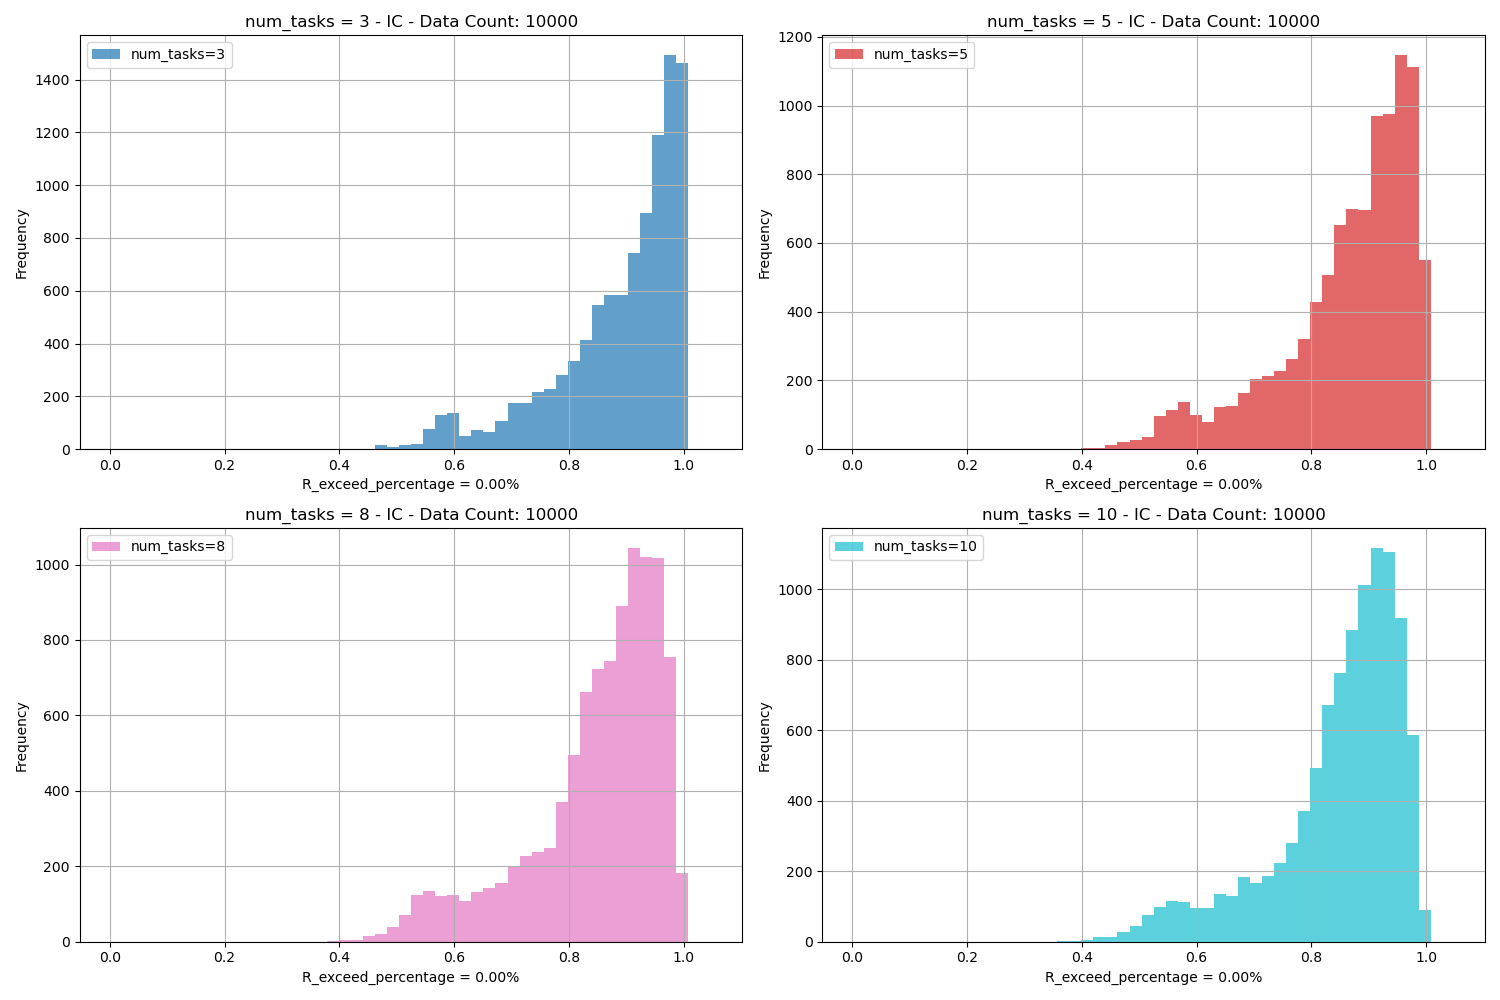
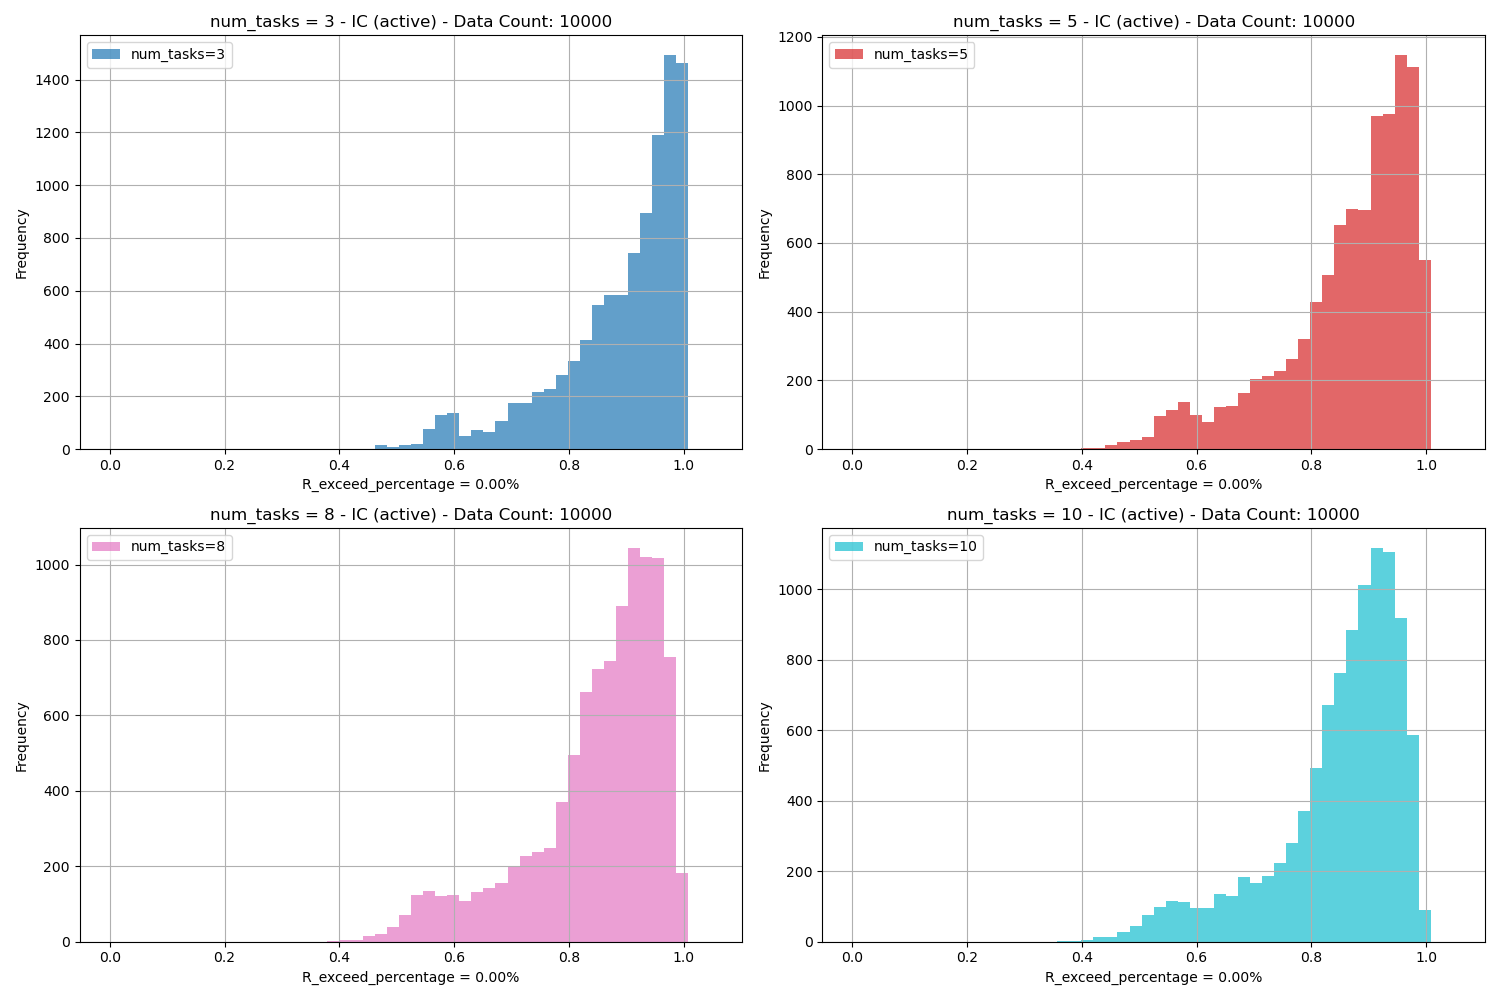
fix fig name

diff --git a/plot.py b/plot.py
@@ -18,7 +18,7 @@ import pandas as pd
 from matplotlib.gridspec import GridSpec
 
 
-def plot_R_histogram_our(csv_file,R_plot_name):
+def plot_R_histogram_our(csv_file,R_plot_name,tag='passive'):
     """
     Read csv_file, retain only the data with per_jitter = 20%,
     group by num_tasks, plot an R value histogram (50 bins evenly spaced from 0 to 1.05),
@@ -77,7 +77,7 @@ def plot_R_histogram_our(csv_file,R_plot_name):
         r_values_greater_than_1 = len([r for r in r_values if r > 1])
         percentage_greater_than_1 = (r_values_greater_than_1 / len(r_values)) * 100 if len(r_values) > 0 else 0
 
-        ax.set_title(f"num_tasks = {num_tasks} - our - Data Count: {len(r_values)}")
+        ax.set_title(f"num_tasks = {num_tasks} - our ({tag}) - Data Count: {len(r_values)}")
         ax.set_xlabel(f"R_exceed_percentage = {percentage_greater_than_1:.2f}%")
         ax.set_ylabel("Frequency")
         ax.legend()
@@ -93,7 +93,7 @@ def plot_R_histogram_our(csv_file,R_plot_name):
 
 
 
-def plot_R_histogram_LET(csv_file,R_plot_name_LET):
+def plot_R_histogram_LET(csv_file,R_plot_name_LET,tag='passive'):
     """
     No filtering per_jitter required
     R = DFF_Gunzel_LET/DFFbound
@@ -149,7 +149,7 @@ def plot_R_histogram_LET(csv_file,R_plot_name_LET):
         r_values_greater_than_1 = len([r for r in r_values if r > 1])
         percentage_greater_than_1 = (r_values_greater_than_1 / len(r_values)) * 100 if len(r_values) > 0 else 0
 
-        ax.set_title(f"num_tasks = {num_tasks} - LET - Data Count: {len(r_values)}")
+        ax.set_title(f"num_tasks = {num_tasks} - LET ({tag}) - Data Count: {len(r_values)}")
         ax.set_xlabel(f"R_exceed_percentage = {percentage_greater_than_1:.2f}%")
         ax.set_ylabel("Frequency")
         ax.legend()
@@ -166,7 +166,7 @@ def plot_R_histogram_LET(csv_file,R_plot_name_LET):
 
 
 
-def plot_R_histogram_IC(csv_file,R_plot_name_IC):
+def plot_R_histogram_IC(csv_file,R_plot_name_IC,tag='passive'):
     """
     No filtering per_jitter required
     R = DFF_Gunzel_IC/DFFbound
@@ -222,7 +222,7 @@ def plot_R_histogram_IC(csv_file,R_plot_name_IC):
         r_values_greater_than_1 = len([r for r in r_values if r > 1])
         percentage_greater_than_1 = (r_values_greater_than_1 / len(r_values)) * 100 if len(r_values) > 0 else 0
 
-        ax.set_title(f"num_tasks = {num_tasks} - IC - Data Count: {len(r_values)}")
+        ax.set_title(f"num_tasks = {num_tasks} - IC ({tag}) - Data Count: {len(r_values)}")
         ax.set_xlabel(f"R_exceed_percentage = {percentage_greater_than_1:.2f}%")
         ax.set_ylabel("Frequency")
         ax.legend()
@@ -238,7 +238,7 @@ def plot_R_histogram_IC(csv_file,R_plot_name_IC):
 
 
 
-def plot_runtime(csv_path, runtime_name):
+def plot_runtime(csv_path, runtime_name, tag='passive'):
     """
     Read csv, group by num_tasks, and calculate the average of run_time_G (Gunzel) and run_time_our (our).
     """
@@ -257,7 +257,7 @@ def plot_runtime(csv_path, runtime_name):
     plt.yscale('log')
     plt.xlabel('num_tasks')
     plt.ylabel('Average Runtime (s)')
-    plt.title(' Average Runtime vs. num_tasks')
+    plt.title(f' Average Runtime vs. num_tasks ({tag})')
 
     plt.legend()
     plt.grid(alpha=0.3)
@@ -267,7 +267,7 @@ def plot_runtime(csv_path, runtime_name):
 
     
 
-def plot_false_percent(csv_file, percent_plot_name):
+def plot_false_percent(csv_file, percent_plot_name, tag='passive'):
     """
     Group by num_tasks and plot a line with false_percentage varying with jitter.
     """
@@ -293,7 +293,7 @@ def plot_false_percent(csv_file, percent_plot_name):
         false_percentages = [np.mean(jitter_data[jitter]) * 100 for jitter in sorted(jitter_data.keys())]
         plt.plot(jitter_percent, false_percentages, label=f"num_tasks={num_tasks}", marker='o')
 
-    plt.title("False Percentage vs. Jitter for Different Number of Tasks")
+    plt.title(f"False Percentage vs. Jitter ({tag})")
     plt.xlabel("Jitter Percentage (%)")
     plt.ylabel("False Percentage (%)")
     plt.legend()
@@ -340,7 +340,7 @@ def compare_plot_histogram_our(csv_files, compare_histogram_our_name):
             ax.bar(bin_centers, counts, width=bin_width, alpha=0.7, align='center', color=colors[idx], label=f'num_tasks={num_tasks}')
 
             label = LABELS[file_idx] 
-            ax.set_title(f"num_tasks = {num_tasks}  (per_jitter=20%) - our - Data Count: {len(r_values)}")
+            ax.set_title(f"num_tasks = {num_tasks}  (per_jitter=20%) - our({label}) - Data Count: {len(r_values)}")
             ax.set_xlabel("R_exceed_percentage = {:.2f}%".format(R_exceed_percentage))
             ax.set_ylabel("Frequency")
             ax.legend()
@@ -445,8 +445,9 @@ def process_csv_file(input_file, output_file=None):
 
 if __name__ == "__main__":
     parser = argparse.ArgumentParser(description="Plot histograms from a CSV file.")
-    parser.add_argument("csv_file", type=str, help="Path to the CSV file containing the data.")
-
+    # parser.add_argument("csv_file", type=str, help="Path to the CSV file containing the data.")
+    parser.add_argument("csv_files", type=str, nargs='+', help="Paths to the CSV files containing the data.")
+    parser.add_argument("name", type=str)
     args = parser.parse_args()
 
-    process_csv_file(args.csv_file)
+    compare_plot_histogram_our(args.csv_files, args.name)

diff --git a/generate_comparison.py b/generate_comparison.py
@@ -225,18 +225,18 @@ def generate_final_comparison(common_csv_passive, common_csv_active, suffix=''):
     histogram_plot_active = suffixed(os.path.join(output_dir, "final_R_histogram_active.png"), suffix)
 
     if suffix == '_IC':
-        plot_runtime(common_csv_passive, runtime_plot_passive)
-        plot_R_histogram_IC(common_csv_passive, histogram_plot_passive)
+        plot_runtime(common_csv_passive, runtime_plot_passive,tag='passive')
+        plot_R_histogram_IC(common_csv_passive, histogram_plot_passive,tag='passive')
         process_csv_file(common_csv_passive)
-        plot_runtime(common_csv_active, runtime_plot_active)
-        plot_R_histogram_IC(common_csv_active, histogram_plot_active)
+        plot_runtime(common_csv_active, runtime_plot_active,tag='active')
+        plot_R_histogram_IC(common_csv_active, histogram_plot_active,tag='active')
         process_csv_file(common_csv_active)
     elif suffix == '_LET':
-        plot_runtime(common_csv_passive, runtime_plot_passive)
-        plot_R_histogram_LET(common_csv_passive, histogram_plot_passive)
+        plot_runtime(common_csv_passive, runtime_plot_passive,tag='passive')
+        plot_R_histogram_LET(common_csv_passive, histogram_plot_passive,tag='passive')
         process_csv_file(common_csv_passive)
-        plot_runtime(common_csv_active, runtime_plot_active)
-        plot_R_histogram_LET(common_csv_active, histogram_plot_active)
+        plot_runtime(common_csv_active, runtime_plot_active,tag='active')
+        plot_R_histogram_LET(common_csv_active, histogram_plot_active,tag='active')
         process_csv_file(common_csv_active)
     else:
         compare_false_percent_our(csv_files, compare_percent_plot_our)
